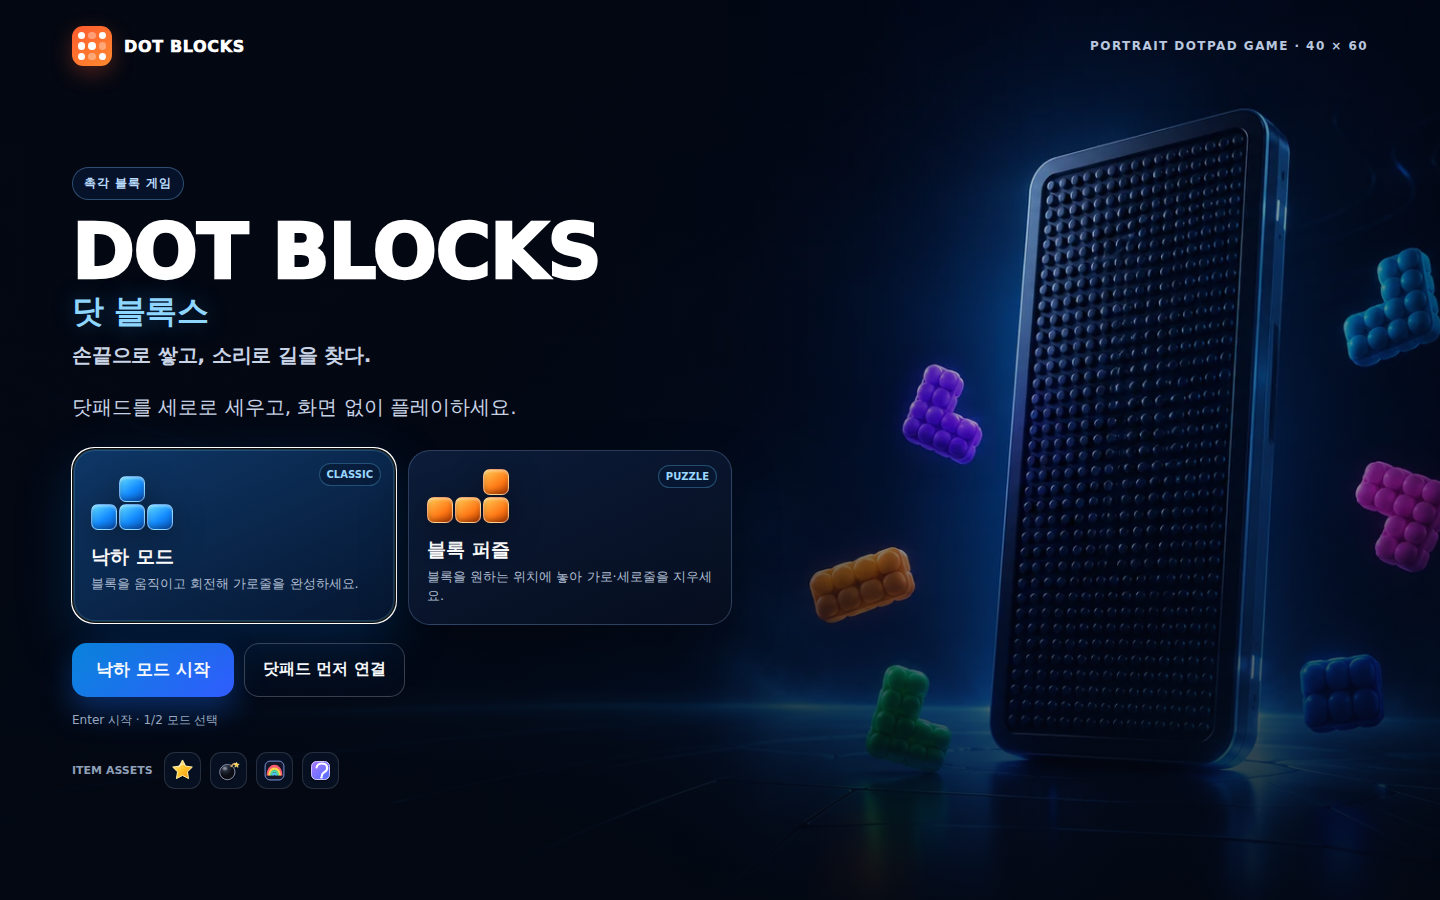
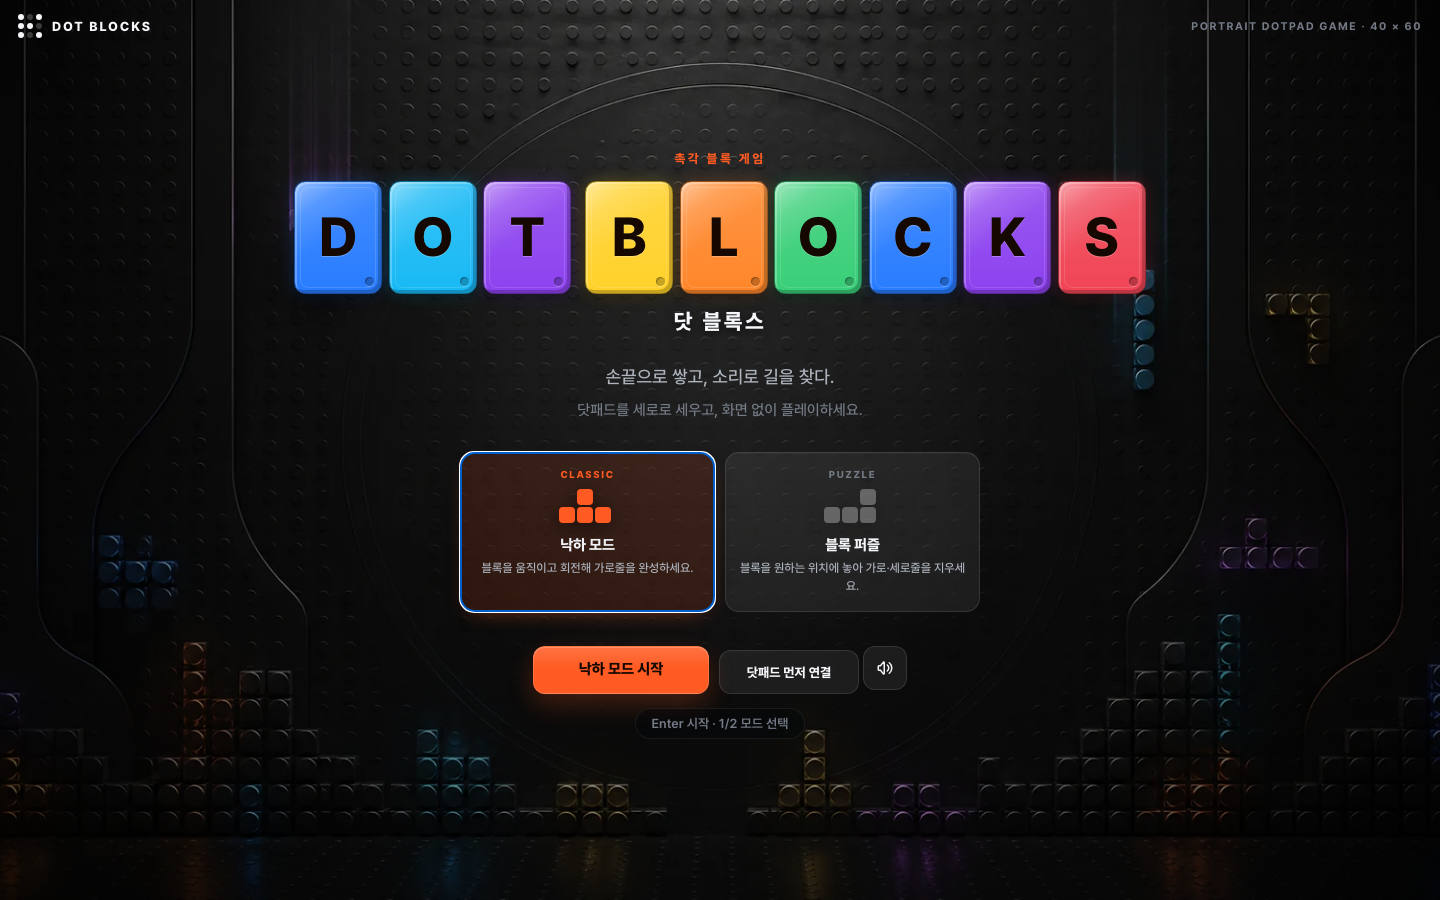
chore: update intro background source

diff --git a/CHANGELOG.md b/CHANGELOG.md
@@ -1,5 +1,11 @@
 # Changelog
 
+## 인트로 배경 소스 교체
+
+- 게임 진입 인트로 배경을 새 `intro-bg.png` 소스로 교체하고, 기존 CSS 계약에 맞춰
+  `assets/intro-bg.webp`와 모바일용 `assets/intro-bg-mobile.webp`를 다시 생성
+- 새 배경 구성에 맞춰 자산 설명 문서의 인트로 배경 설명을 갱신
+
 ## 닷패드 기능키 감사 — 미연결 진입점 수정
 
 SDK 3.0.0이 실제로 노출하는 키는 `KeyFunction1~4`, `KeyFunction12/13/14/23/24/34`, `KeyElse`,
@@ -7,7 +13,8 @@ SDK 3.0.0이 실제로 노출하는 키는 `KeyFunction1~4`, `KeyFunction12/13/1
 플레이 중 설정 메뉴로 들어가는 경로가 동작하지 않았습니다(가드 덕에 오류는 없었음).
 
 - 플레이 중 설정 진입을 **F1+F4**로 연결. 두 모드 모두 비어 있던 키이고, 바깥쪽 두 손가락이라
-  오입력 위험이 낮음. `LPF4` 검사는 해당 키를 노출하는 펌웨어를 위해 남겨둠
+  오입력 위험이 낮을 것으로 보이나, 실제 펌웨어가 F1+F4를 F1 또는 F4 단독 입력으로 오인하지
+  않는지는 실기 확인 필요. `LPF4` 검사는 해당 키를 노출하는 펌웨어를 위해 남겨둠
 - 설정 시트의 기능키 안내문 한/영 4종에 `F1+F4 설정` 추가
 
 ## 블라인드-퍼스트 P0를 소스에 반영하고 런타임 재작성기 제거

diff --git a/assets/ASSETS.md b/assets/ASSETS.md
@@ -6,8 +6,8 @@ on top, so text stays selectable, translatable and screen-reader accessible.
 
 | File | Used by | Notes |
 |---|---|---|
-| `intro-bg.webp` | intro screen, landscape | 1672×941. Embossed pin field with a centred braille glyph; copy sits over it with a gradient + vignette scrim. |
-| `intro-bg-mobile.webp` | intro screen, `max-width:820px` | 1080×1350 portrait crop of the same plate. |
+| `intro-bg.webp` | intro screen, landscape | 1672×941. Dark embossed pin field with a quiet circular centre area and scattered glowing block pieces; copy sits over it with a gradient + vignette scrim. |
+| `intro-bg-mobile.webp` | intro screen, `max-width:820px` | 1080×1350 portrait crop of the same plate, centred on the empty stage area. |
 | `board-frame.webp` | the board shell on the play screen | 473×889. The DotPad bezel, cropped from the original play plate. |
 | `items/*.svg` | special-item symbols | Transparent, scalable. Not yet surfaced in play. |
 
